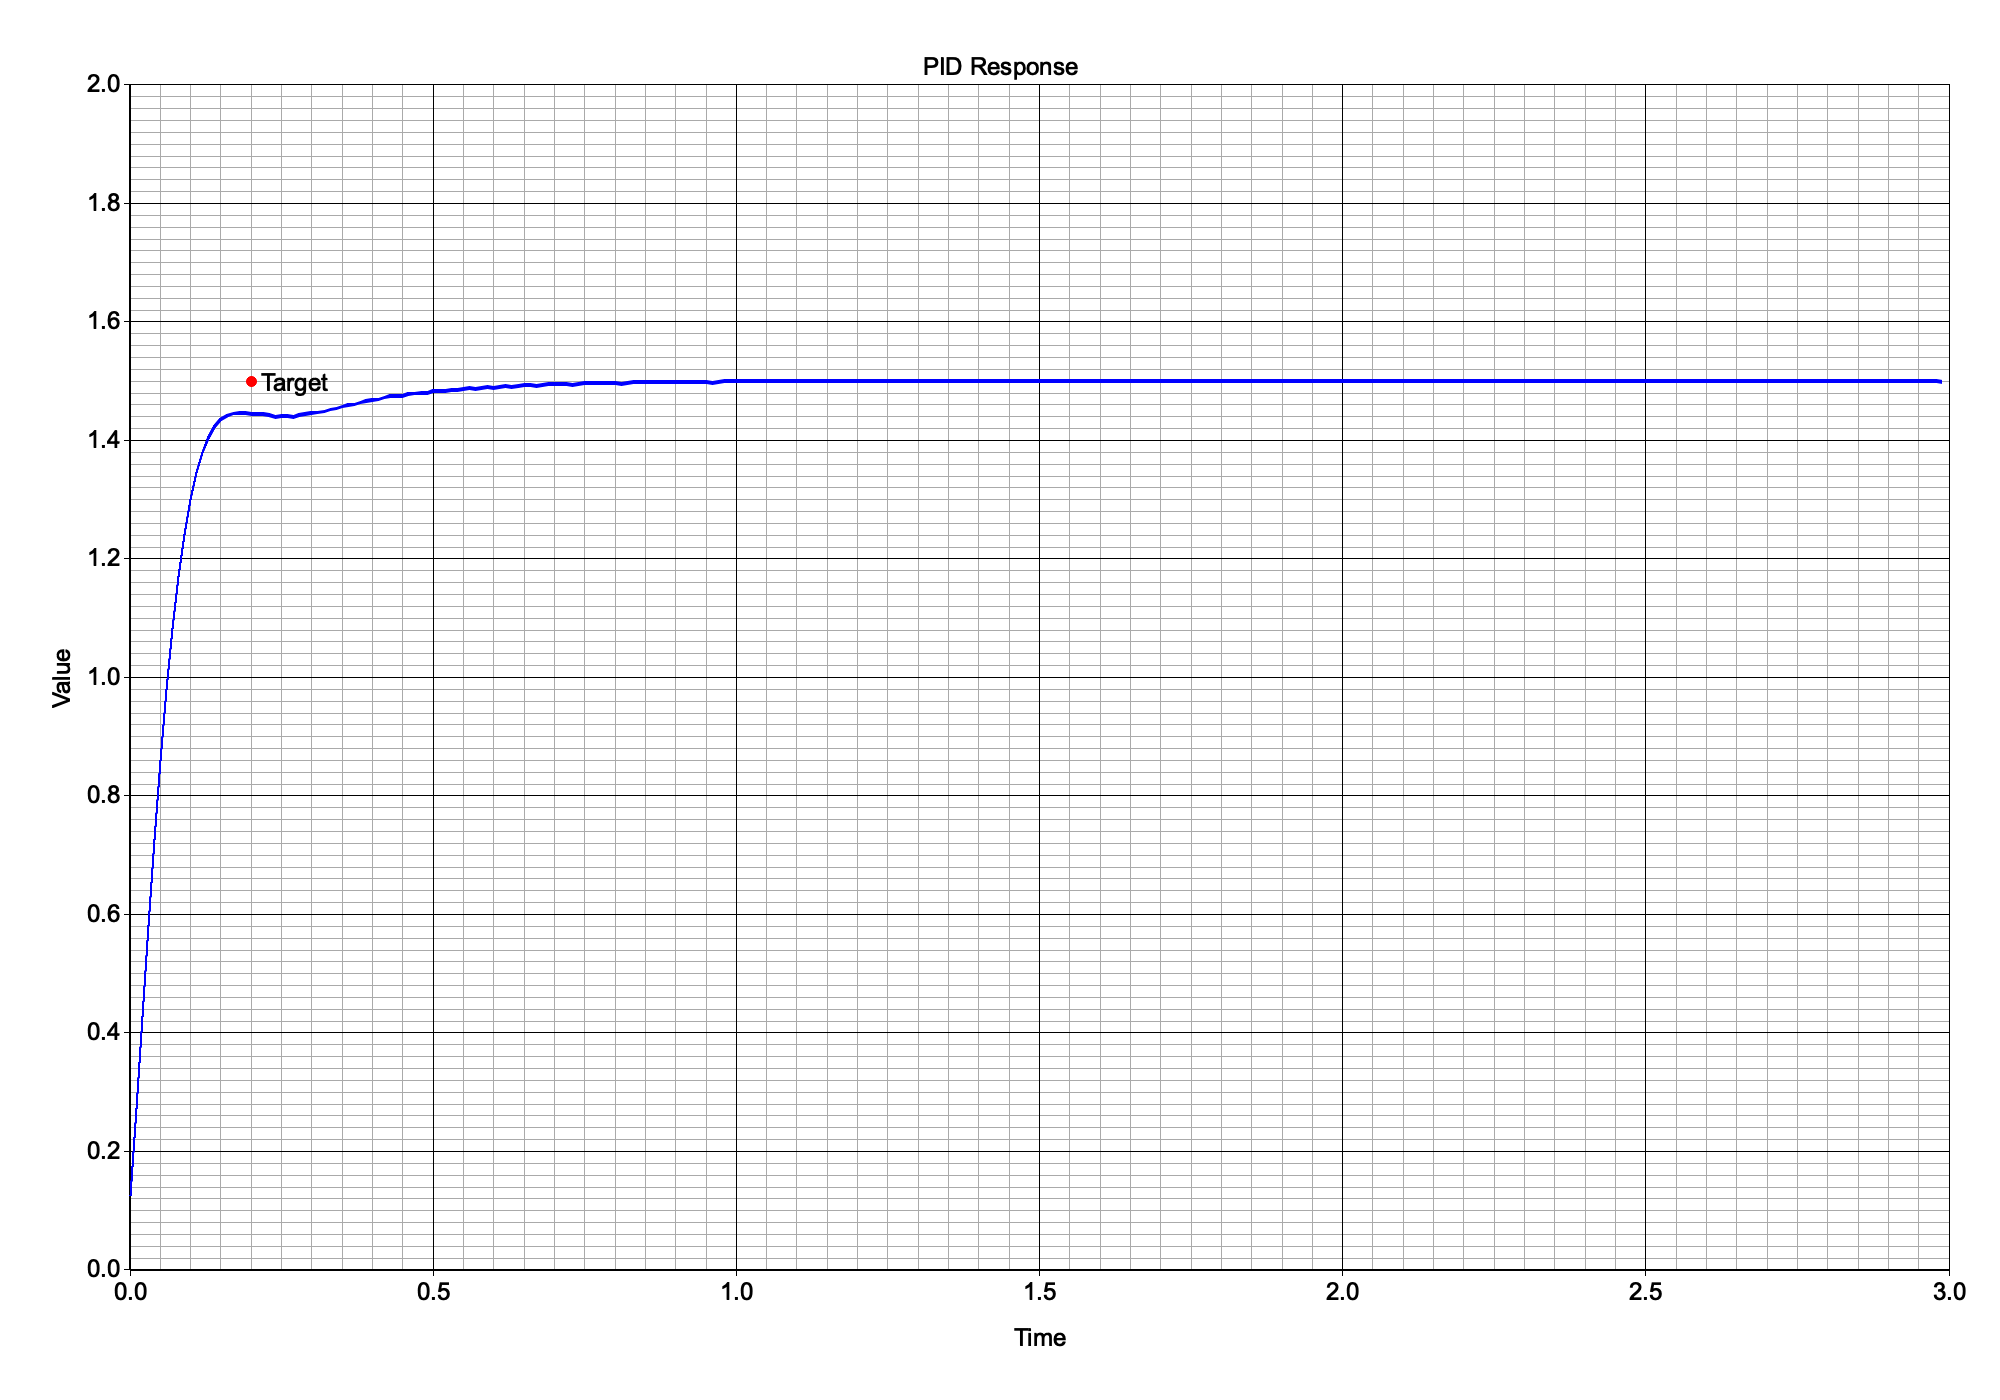
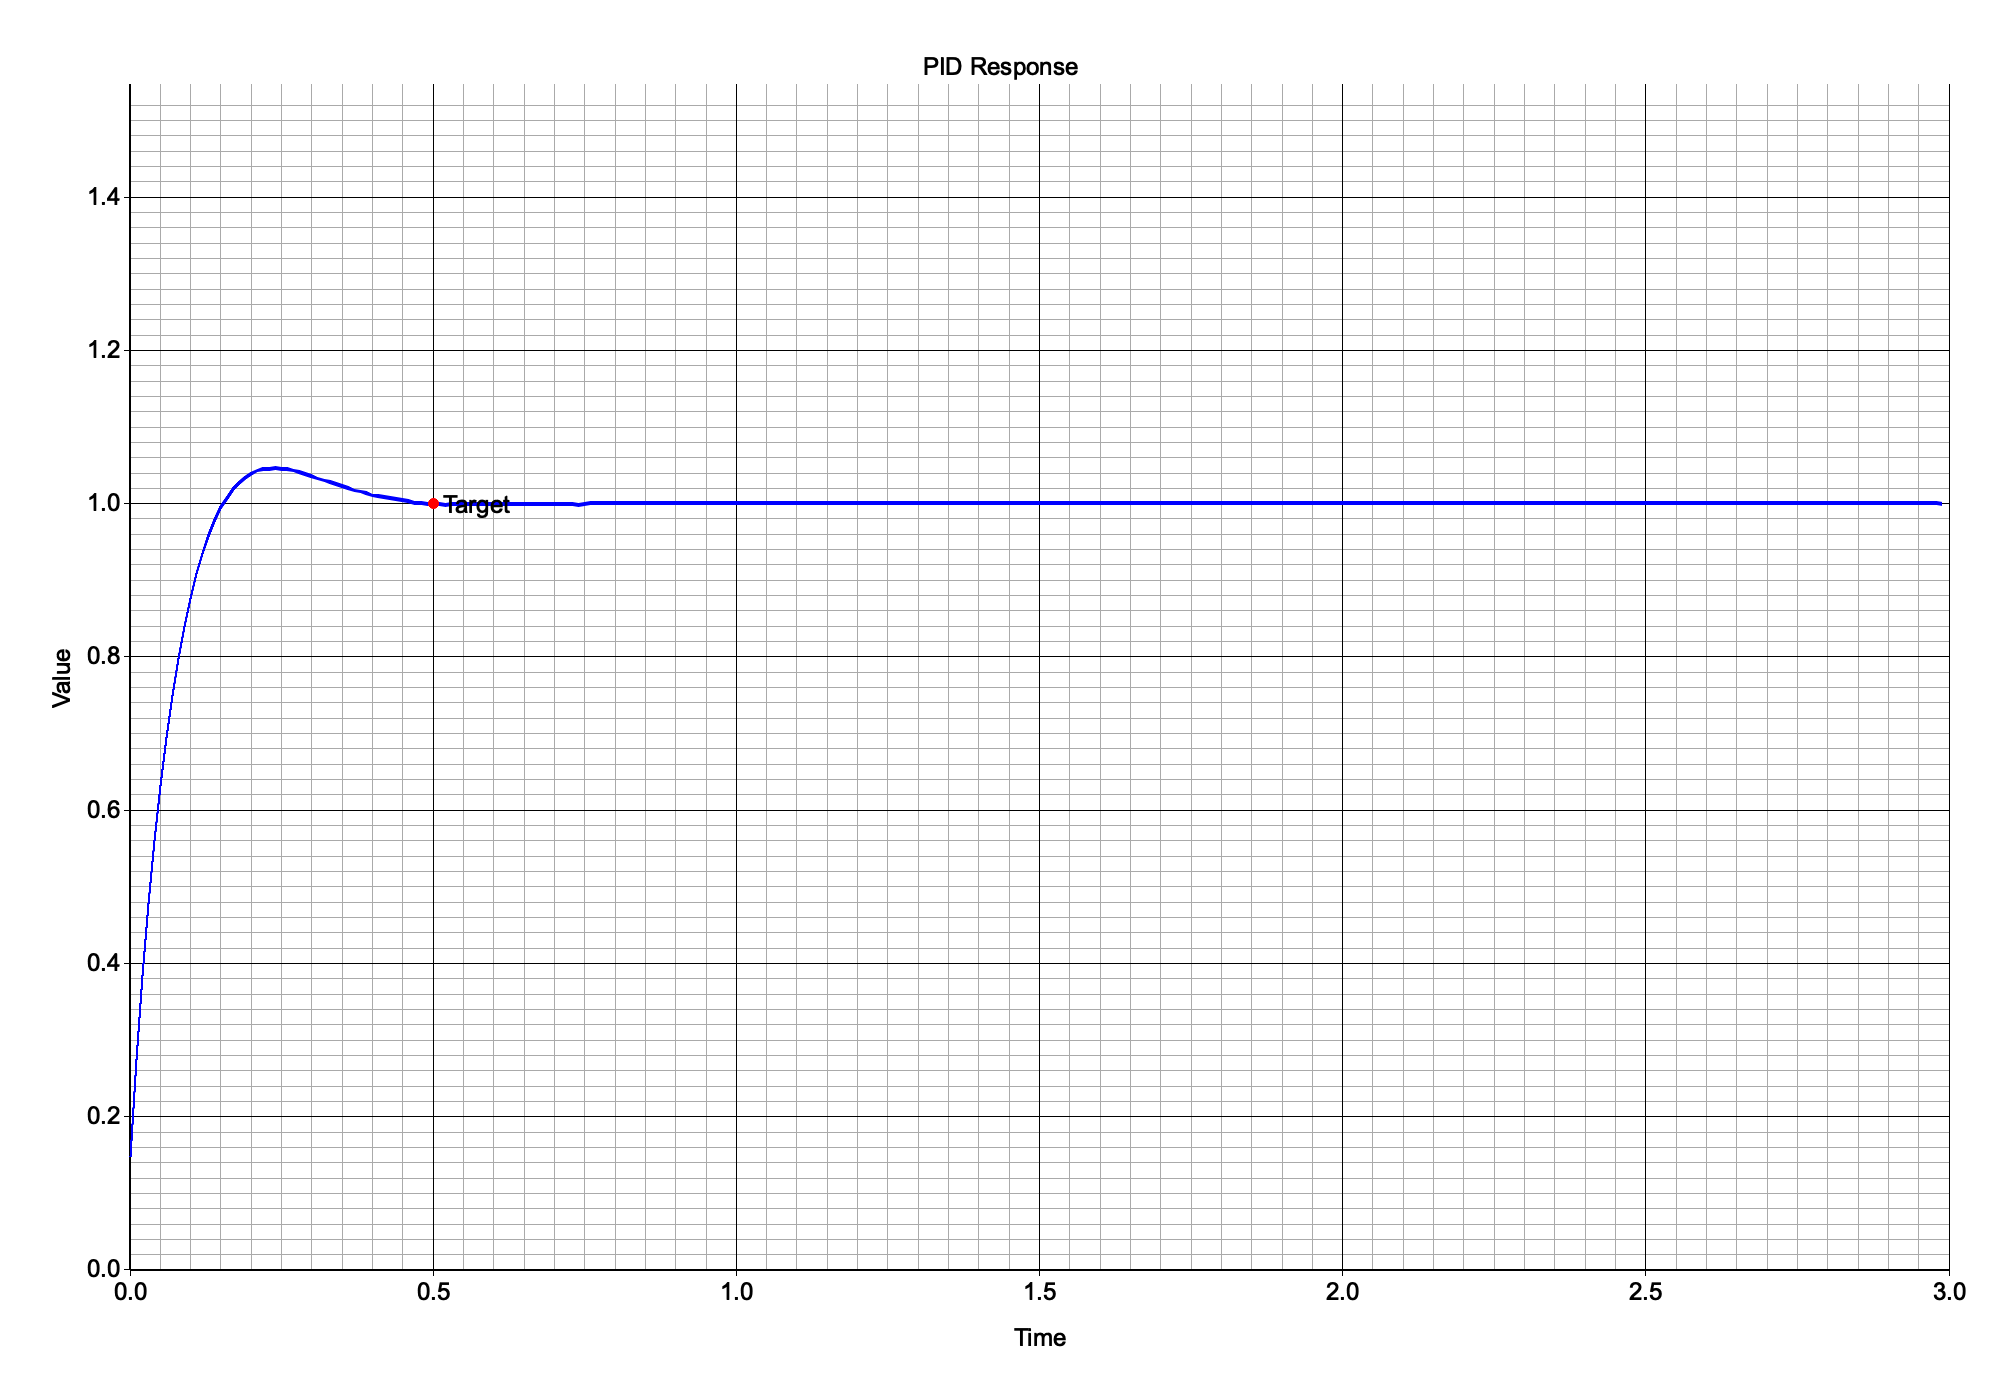
Rust modules were introduced. UI got reactive form with debounce, default init values from BE.

Changed region(s): [[0.031, 0.1843, 0.961, 0.8907], [0.031, 0.0921, 0.961, 0.1536]]

diff --git a/ui/pid-visualizer/src/app/app.component.html b/ui/pid-visualizer/src/app/app.component.html
@@ -1,36 +1,43 @@
 <div class="container">
   <h1>Drone PID Simulation</h1>
-  <form (ngSubmit)="onSettingsChanged()" #pidForm="ngForm">
-    <!-- Form fields wrapped in <div> for styling -->
+
+  <!-- Remove the submit button if not needed -->
+  <form>
     <div>
       <label for="target">Target Value:</label>
-      <input type="number" id="target" name="target" [(ngModel)]="inputModel.target" required>
+      <input type="number" id="target" name="target" [(ngModel)]="inputModel.target" step="0.1"
+        (ngModelChange)="onSettingsChanged()" required>
     </div>
     <div>
       <label for="timeResponse">Time Response:</label>
-      <input type="number" id="timeResponse" name="timeResponse" [(ngModel)]="inputModel.timeResponse" required>
+      <input type="number" id="timeResponse" name="timeResponse" [(ngModel)]="inputModel.timeResponse" step="0.1"
+        (ngModelChange)="onSettingsChanged()" required>
     </div>
     <div>
       <label for="kp">Kp:</label>
-      <input type="number" id="kp" name="kp" [(ngModel)]="inputModel.pid.kp" required>
+      <input type="number" id="kp" name="kp" [(ngModel)]="inputModel.pid.kp" (ngModelChange)="onSettingsChanged()"
+        step="0.1" required>
     </div>
     <div>
       <label for="ki">Ki:</label>
-      <input type="number" id="ki" name="ki" [(ngModel)]="inputModel.pid.ki" required>
+      <input type="number" id="ki" name="ki" [(ngModel)]="inputModel.pid.ki" (ngModelChange)="onSettingsChanged()"
+        step="0.1" required>
     </div>
     <div>
       <label for="kd">Kd:</label>
-      <input type="number" id="kd" name="kd" [(ngModel)]="inputModel.pid.kd" required>
+      <input type="number" id="kd" name="kd" [(ngModel)]="inputModel.pid.kd" (ngModelChange)="onSettingsChanged()"
+        step="0.001" required>
     </div>
     <div>
       <label for="droneModel">Drone Model:</label>
-      <select id="droneModel" name="droneModel" [(ngModel)]="inputModel.droneModel" required>
+      <select id="droneModel" name="droneModel" [(ngModel)]="inputModel.droneModel"
+        (ngModelChange)="onSettingsChanged()" required>
         <option value="cetus_pro">BetaFPV Cetus Pro</option>
-        <!-- Add more options as needed -->
+        <!-- Additional options here -->
       </select>
     </div>
-    <button type="submit">Update Simulation</button>
   </form>
+
   <div class="image-container">
     <h2>PID Response</h2>
     <img [src]="imageUrl" alt="PID Response">

diff --git a/ui/pid-visualizer/src/app/app.component.ts b/ui/pid-visualizer/src/app/app.component.ts
@@ -1,7 +1,9 @@
-import { Component } from '@angular/core';
+import { Component, OnInit } from '@angular/core';
 import { HttpClient } from '@angular/common/http';
 import { FormsModule } from '@angular/forms';
 import { environment } from '../environments/environment';
+import { firstValueFrom, Subject } from 'rxjs';
+import { debounceTime } from 'rxjs/operators';
 
 interface PIDParams {
   kp: number;
@@ -23,27 +25,33 @@ interface InputModel {
   templateUrl: './app.component.html',
   styleUrls: ['./app.component.scss'],
 })
-export class AppComponent {
-  inputModel: InputModel = {
-    target: 1.5,
-    timeResponse: 1.0,
-    pid: {
-      kp: 0.5,
-      ki: 0.0,
-      kd: 0.0,
-    },
-    droneModel: 'cetus_pro',
-  };
-
+export class AppComponent implements OnInit {
+  inputModel!: InputModel;
   imageUrl = `${environment.apiUrl}/api/image`;
+  private updateSubject = new Subject<void>();
 
-  constructor(private http: HttpClient) {}
+  constructor(private http: HttpClient) { }
+
+  async ngOnInit(): Promise<void> {
+    const defaults = await firstValueFrom(this.http.get<InputModel>(`${environment.apiUrl}/api/defaults`));
+    this.inputModel = {
+      target: defaults.target,
+      timeResponse: defaults.timeResponse,
+      pid: defaults.pid,
+      droneModel: defaults.droneModel,
+    };
+
+    this.updateSubject.pipe(
+      debounceTime(500)
+    ).subscribe(() => {
+      this.http.post(`${environment.apiUrl}/api/input`, this.inputModel)
+        .subscribe(() => {
+          this.imageUrl = `${environment.apiUrl}/api/image?t=${new Date().getTime()}`;
+        });
+    });
+  }
 
   onSettingsChanged() {
-    // Use the environment variable to specify the host
-    this.http.post(`${environment.apiUrl}/api/input`, this.inputModel)
-      .subscribe(() => {
-        this.imageUrl = `${environment.apiUrl}/api/image?t=${new Date().getTime()}`;
-      });
+    this.updateSubject.next();
   }
 }

diff --git a/src/controllers/web_controller.rs b/src/controllers/web_controller.rs
@@ -1,0 +1,61 @@
+use crate::controllers::pid_controller::PIDController;
+use crate::logic::drone_models::DroneModels::CetusPro;
+use crate::logic::input::Input;
+use crate::logic::physics::Physics;
+use crate::logic::pid::PID;
+use actix_files::NamedFile;
+use actix_web::{web, HttpResponse, Responder};
+use serde::{Deserialize, Serialize};
+
+#[derive(Debug, Serialize, Deserialize)]
+#[serde(rename_all = "camelCase")]
+pub struct InputModel {
+    pub target: f64,
+    pub time_response: f64,
+    pub pid: PIDParams,
+    pub drone_model: String,
+}
+
+#[derive(Debug, Serialize, Deserialize)]
+#[serde(rename_all = "camelCase")]
+pub struct PIDParams {
+    kp: f64,
+    ki: f64,
+    kd: f64,
+}
+
+// Endpoint to update simulation settings.
+pub async fn update_input(input: web::Json<InputModel>) -> impl Responder {
+    println!("Received input: {:?}", input);
+    let target = Input::set(input.target, input.time_response);
+    let pid = PID::new(input.pid.kp, input.pid.ki, input.pid.kd);
+    let phx = Physics::cetus_pro(3.0, 0.0007);
+
+    // logic here
+    match PIDController::update(target, pid, phx) {
+        Some(result) => HttpResponse::Ok().json(input.into_inner()),
+        None => HttpResponse::InternalServerError().json("Something went wrong"),
+    }
+}
+
+// Endpoint to serve the generated image.
+pub async fn get_image() -> actix_web::Result<NamedFile> {
+    NamedFile::open("./pid_response.png").map_err(actix_web::error::ErrorInternalServerError)
+}
+
+pub async fn get_defaults() -> impl Responder {
+    let d_input = Input::default();
+    let d_pid = PID::default();
+    let d_drone = CetusPro;
+    let default: InputModel = InputModel {
+        target: d_input.target_value,
+        time_response: d_input.acceptable_time,
+        pid: PIDParams {
+            kp: d_pid.kp,
+            ki: d_pid.ki,
+            kd: d_pid.kd,
+        },
+        drone_model: d_drone.to_string(),
+    };
+    HttpResponse::Ok().json(default)
+}

diff --git a/src/main.rs b/src/main.rs
@@ -1,17 +1,13 @@
 mod console_input;
-mod input;
-mod math_utils;
-mod physics;
-mod pid;
-mod pid_processor;
-mod visualizer;
-mod web_controller;
+mod controllers;
+mod logic;
+mod utils;
 
-use crate::web_controller::{get_image, update_input};
 use actix_cors::Cors;
 use actix_files::Files;
 use actix_web::http::header;
 use actix_web::{web, App, HttpServer};
+use controllers::web_controller::{get_defaults, get_image, update_input};
 
 #[actix_web::main]
 async fn main() -> std::io::Result<()> {
@@ -28,6 +24,7 @@ async fn main() -> std::io::Result<()> {
             )
             .route("/api/input", web::post().to(update_input))
             .route("/api/image", web::get().to(get_image))
+            .route("/api/defaults", web::get().to(get_defaults))
             // Serve image and other endpoints as needed
             .service(Files::new("/", ui_path).index_file("index.html"))
     })

diff --git a/src/controllers/pid_controller.rs b/src/controllers/pid_controller.rs
@@ -1,0 +1,25 @@
+use crate::logic::input::Input;
+use crate::logic::physics::Physics;
+use crate::logic::pid::PID;
+use crate::logic::pid_processor::PIDProcessor;
+use crate::logic::visualizer::{Visualizer, VisualizerConfig};
+
+pub struct PIDController {}
+impl PIDController {
+    pub fn update(input: Input, pid: PID, phx: Physics) -> Option<anyhow::Result<()>> {
+        let visualizer = Visualizer::new(VisualizerConfig::new(
+            "PID Response".to_string(),
+            "pid_response.png".to_string(),
+            2000,
+            1400,
+            30,
+        ));
+
+        println!("{:?}", phx);
+
+        let mut pid_processor = PIDProcessor::new(0.0, 0.0, 1.0, 0.01, pid, phx.clone());
+        let plot_data = pid_processor.process(&input);
+
+        Some(visualizer.plot_response(&input, &plot_data, &phx.sim_time))
+    }
+}

diff --git a/src/logic/input.rs b/src/logic/input.rs
@@ -7,6 +7,13 @@ pub struct Input {
     pub acceptable_time: f64, // in seconds
 }
 impl Input {
+    pub fn default() -> Input {
+        Input {
+            target_value: 1.0,
+            acceptable_time: 1.0,
+        }
+    }
+
     pub fn set(value: f64, time: f64) -> Input {
         Self {
             target_value: value,

diff --git a/src/logic/pid.rs b/src/logic/pid.rs
@@ -11,6 +11,15 @@ pub struct PID {
 }
 
 impl PID {
+    pub fn default() -> PID {
+        PID {
+            kp: 2.0,
+            ki: 2.0,
+            kd: 0.01,
+            integral: 0.0,
+            prev_error: 0.0,
+        }
+    }
     pub fn new(kp: f64, ki: f64, kd: f64) -> Self {
         Self {
             kp,

diff --git a/src/logic/pid_processor.rs b/src/logic/pid_processor.rs
@@ -1,6 +1,6 @@
-use crate::input::Input;
-use crate::physics::Physics;
-use crate::pid::PID;
+use crate::logic::input::Input;
+use crate::logic::physics::Physics;
+use crate::logic::pid::PID;
 
 pub struct PIDProcessor {
     pub measurement: f64, // init position

diff --git a/src/logic/visualizer.rs b/src/logic/visualizer.rs
@@ -1,5 +1,5 @@
-use crate::input::Input;
-use crate::math_utils::MathUtils;
+use crate::logic::input::Input;
+use crate::utils::math_utils::MathUtils;
 use plotters::prelude::*;
 use plotters::style::full_palette::GREY_A200;
 

diff --git a/src/logic/drone_models.rs b/src/logic/drone_models.rs
@@ -1,0 +1,8 @@
+use serde::{Deserialize, Serialize};
+use strum_macros::Display;
+
+#[derive(Debug, Serialize, Deserialize, Display)]
+pub enum DroneModels {
+    #[strum(serialize = "cetus_pro")]
+    CetusPro,
+}

diff --git a/src/logic/mod.rs b/src/logic/mod.rs
@@ -1,0 +1,6 @@
+pub mod drone_models;
+pub mod input;
+pub mod physics;
+pub mod pid;
+pub mod pid_processor;
+pub mod visualizer;

diff --git a/src/controllers/mod.rs b/src/controllers/mod.rs
@@ -1,0 +1,2 @@
+pub mod pid_controller;
+pub mod web_controller;
